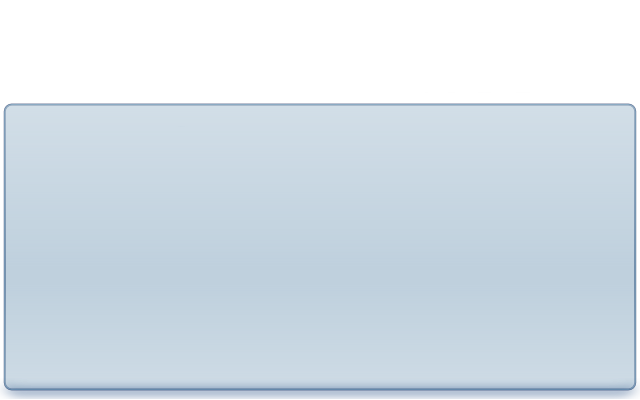
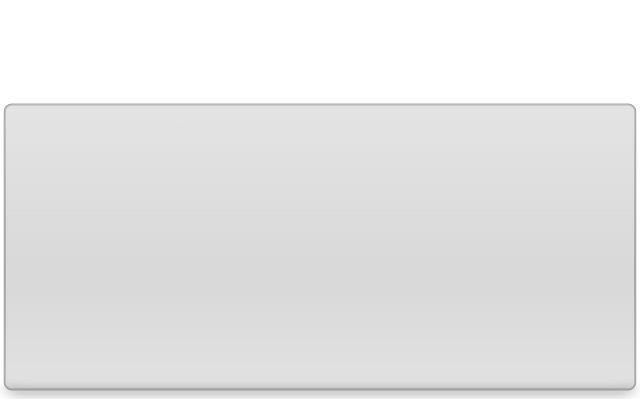
Added Green Curtain wallpaper (a modification of Stripes) and set as default This is both for artistic and legibility reasons, as well as to differentiate Trinity from KDE4
git-svn-id: svn://anonsvn.kde.org/home/kde/branches/trinity/kdebase@1173286 283d02a7-25f6-0310-bc7c-ecb5cbfe19da

Changed region(s): [[0.0, 0.57, 1.0, 0.78], [0.0, 0.93, 1.0, 0.99], [0.0, 0.24, 1.0, 0.3]]

diff --git a/kpersonalizer/keyecandypage.cpp b/kpersonalizer/keyecandypage.cpp
@@ -45,7 +45,7 @@
 #include "ksysinfo.h"
 #include "keyecandypage.h"
 
-#define DEFAULT_WALLPAPER "stripes.jpg"
+#define DEFAULT_WALLPAPER "green_curtain.jpg"
 
 KEyeCandyPage::KEyeCandyPage(TQWidget *parent, const char *name ) : KEyeCandyPageDlg(parent,name) {
 

diff --git a/kdm/kfrontend/genkdmconf.c b/kdm/kfrontend/genkdmconf.c
@@ -694,7 +694,7 @@ static const char def_background[] =
 "Program=\n"
 "ReverseBlending=false\n"
 "UseSHM=false\n"
-"Wallpaper=stripes.jpg\n"
+"Wallpaper=green_curtain.jpg\n"
 "WallpaperList=\n"
 "WallpaperMode=Scaled\n";
 
